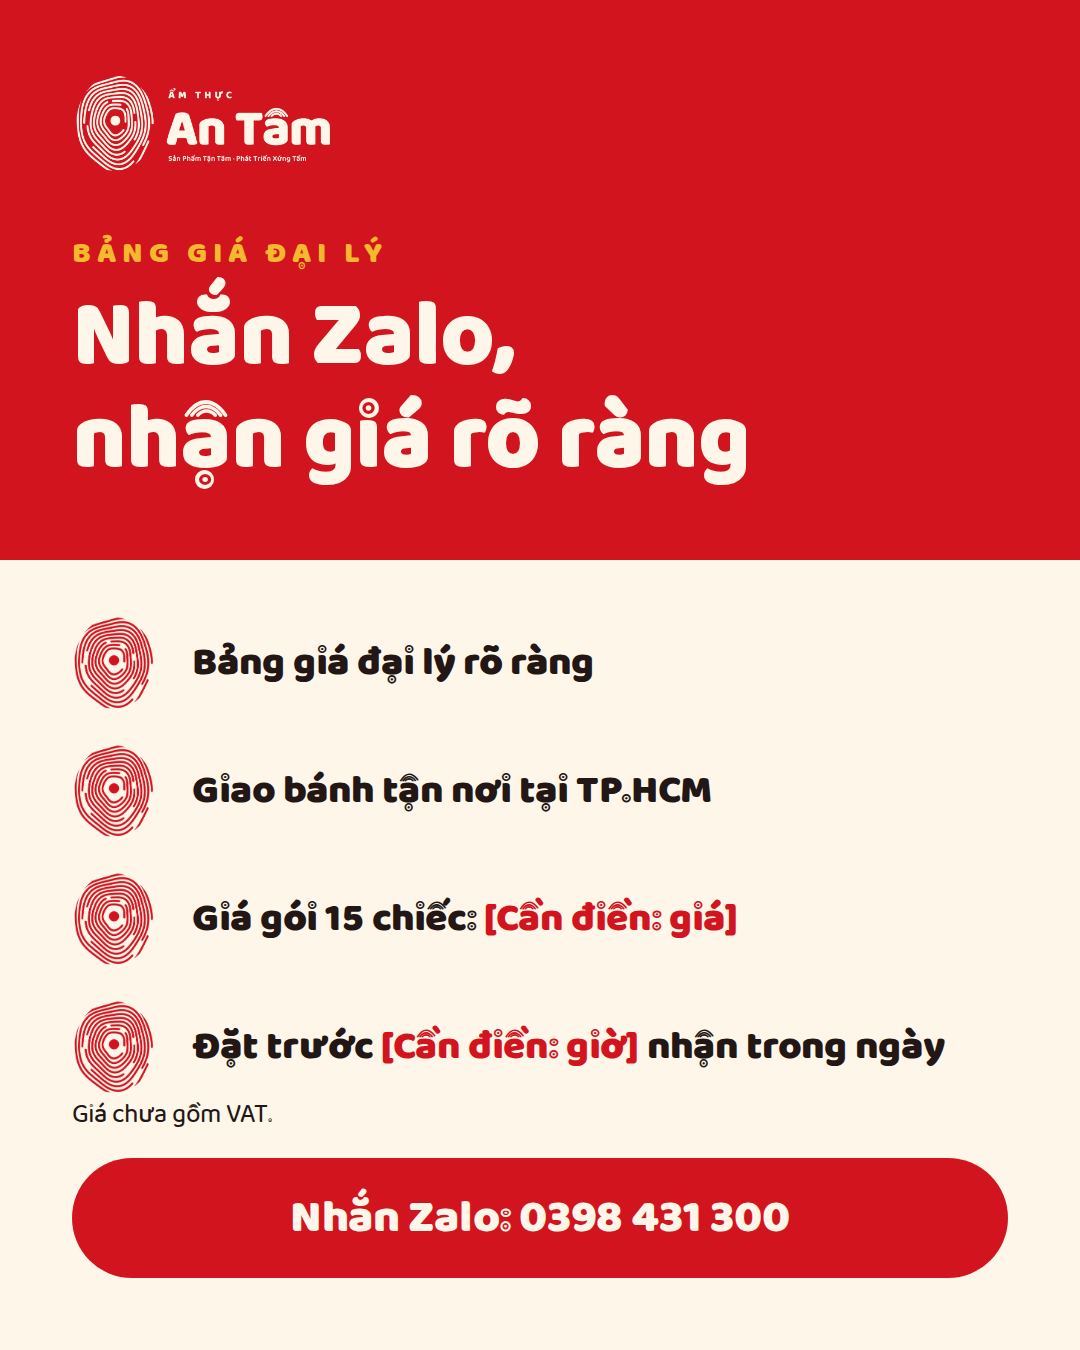
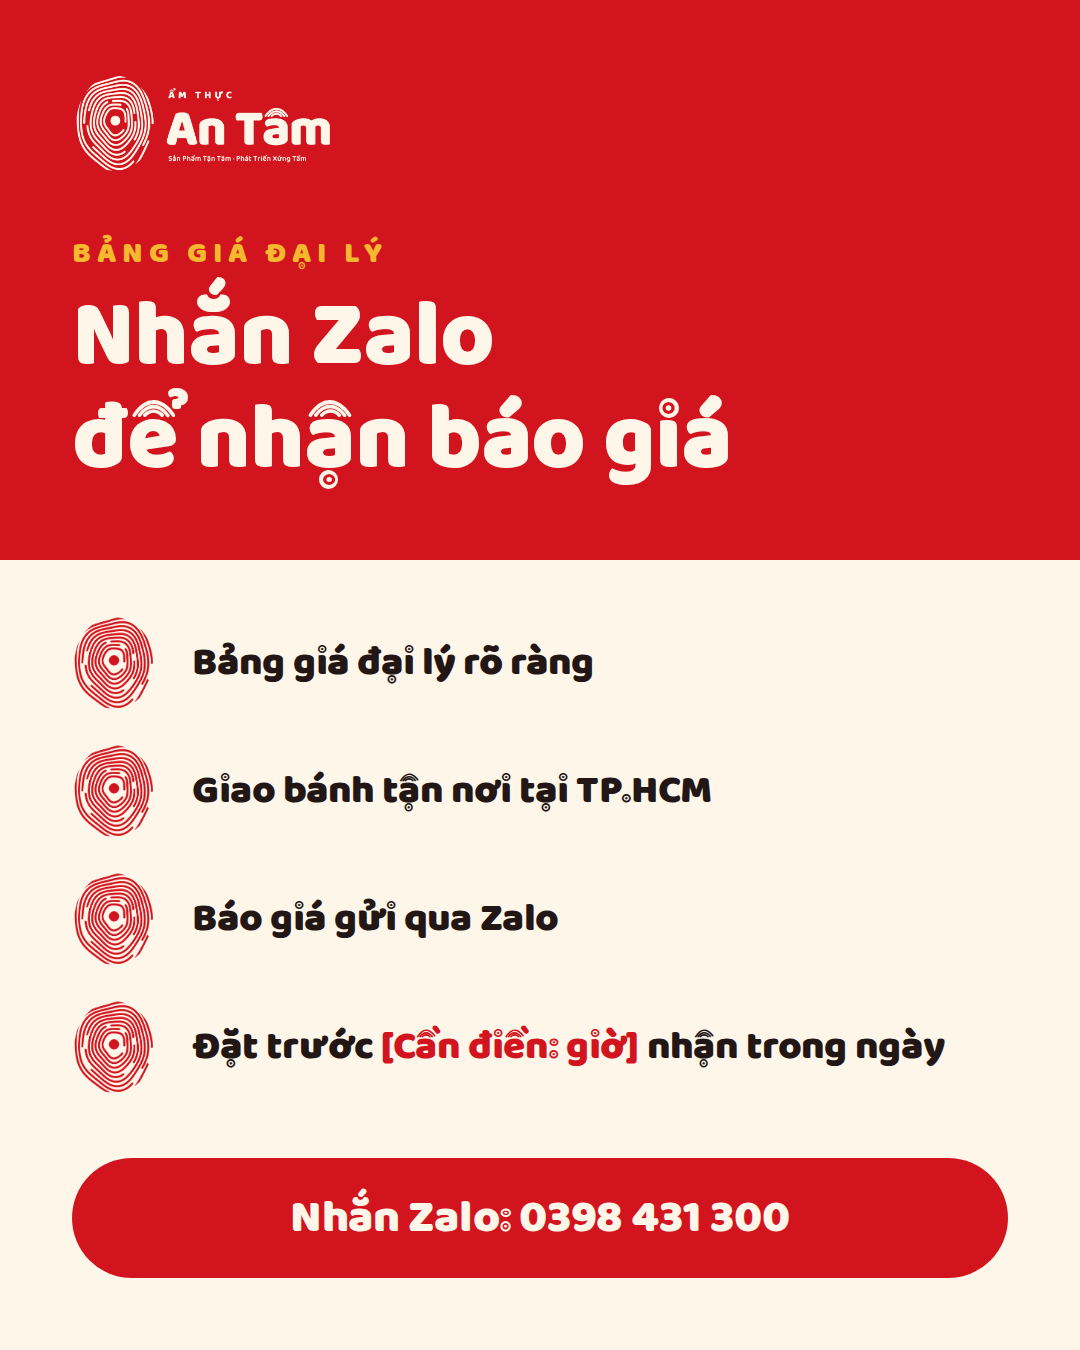
Marketing: An Tâm bản 2 — giá chỉ báo qua Zalo, bỏ thử mẫu
Claude-Session: https://claude.ai/code/session_01Kq3X1y8geurvq5mnJxo66X

Changed region(s): [[0.0611, 0.2489, 0.7028, 0.3733], [0.1833, 0.6533, 0.7028, 0.7156], [0.0611, 0.8089, 0.2444, 0.84]]

diff --git a/marketing/2026-10-03-ke-hoach-1-tuan-10-bai-banh-tortillas/mau/c-nhan-bang-gia.html b/marketing/2026-10-03-ke-hoach-1-tuan-10-bai-banh-tortillas/mau/c-nhan-bang-gia.html
@@ -11,13 +11,12 @@
 .vat{position:absolute;left:72px;bottom:214px;font-weight:400;font-size:26px}
 </style></head><body>
 <div class="slide" id="s">
-<div class="hd"><img class="logo" src="../nhan-dien/logo/logo-ngang-kem.png" alt="Ẩm Thực An Tâm"><div class="nhan">Bảng giá đại lý</div><div class="h1">Nhắn Zalo,<br>nhận giá rõ ràng</div></div>
+<div class="hd"><img class="logo" src="../nhan-dien/logo/logo-ngang-kem.png" alt="Ẩm Thực An Tâm"><div class="nhan">Bảng giá đại lý</div><div class="h1">Nhắn Zalo<br>để nhận báo giá</div></div>
 <div class="bd">
 <div class="it"><img src="../nhan-dien/logo/bieu-tuong-van-tay-do.png" alt=""><span>Bảng giá đại lý rõ ràng</span></div>
 <div class="it"><img src="../nhan-dien/logo/bieu-tuong-van-tay-do.png" alt=""><span>Giao bánh tận nơi tại TP.HCM</span></div>
-<div class="it"><img src="../nhan-dien/logo/bieu-tuong-van-tay-do.png" alt=""><span>Giá gói 15 chiếc: <span class="cd">[Cần điền: giá]</span></span></div>
+<div class="it"><img src="../nhan-dien/logo/bieu-tuong-van-tay-do.png" alt=""><span>Báo giá gửi qua Zalo</span></div>
 <div class="it"><img src="../nhan-dien/logo/bieu-tuong-van-tay-do.png" alt=""><span>Đặt trước <span class="cd">[Cần điền: giờ]</span> nhận trong ngày</span></div>
 </div>
-<div class="vat">Giá chưa gồm VAT.</div>
 <div class="pill">Nhắn Zalo: 0398 431 300</div>
 </div></body></html>
